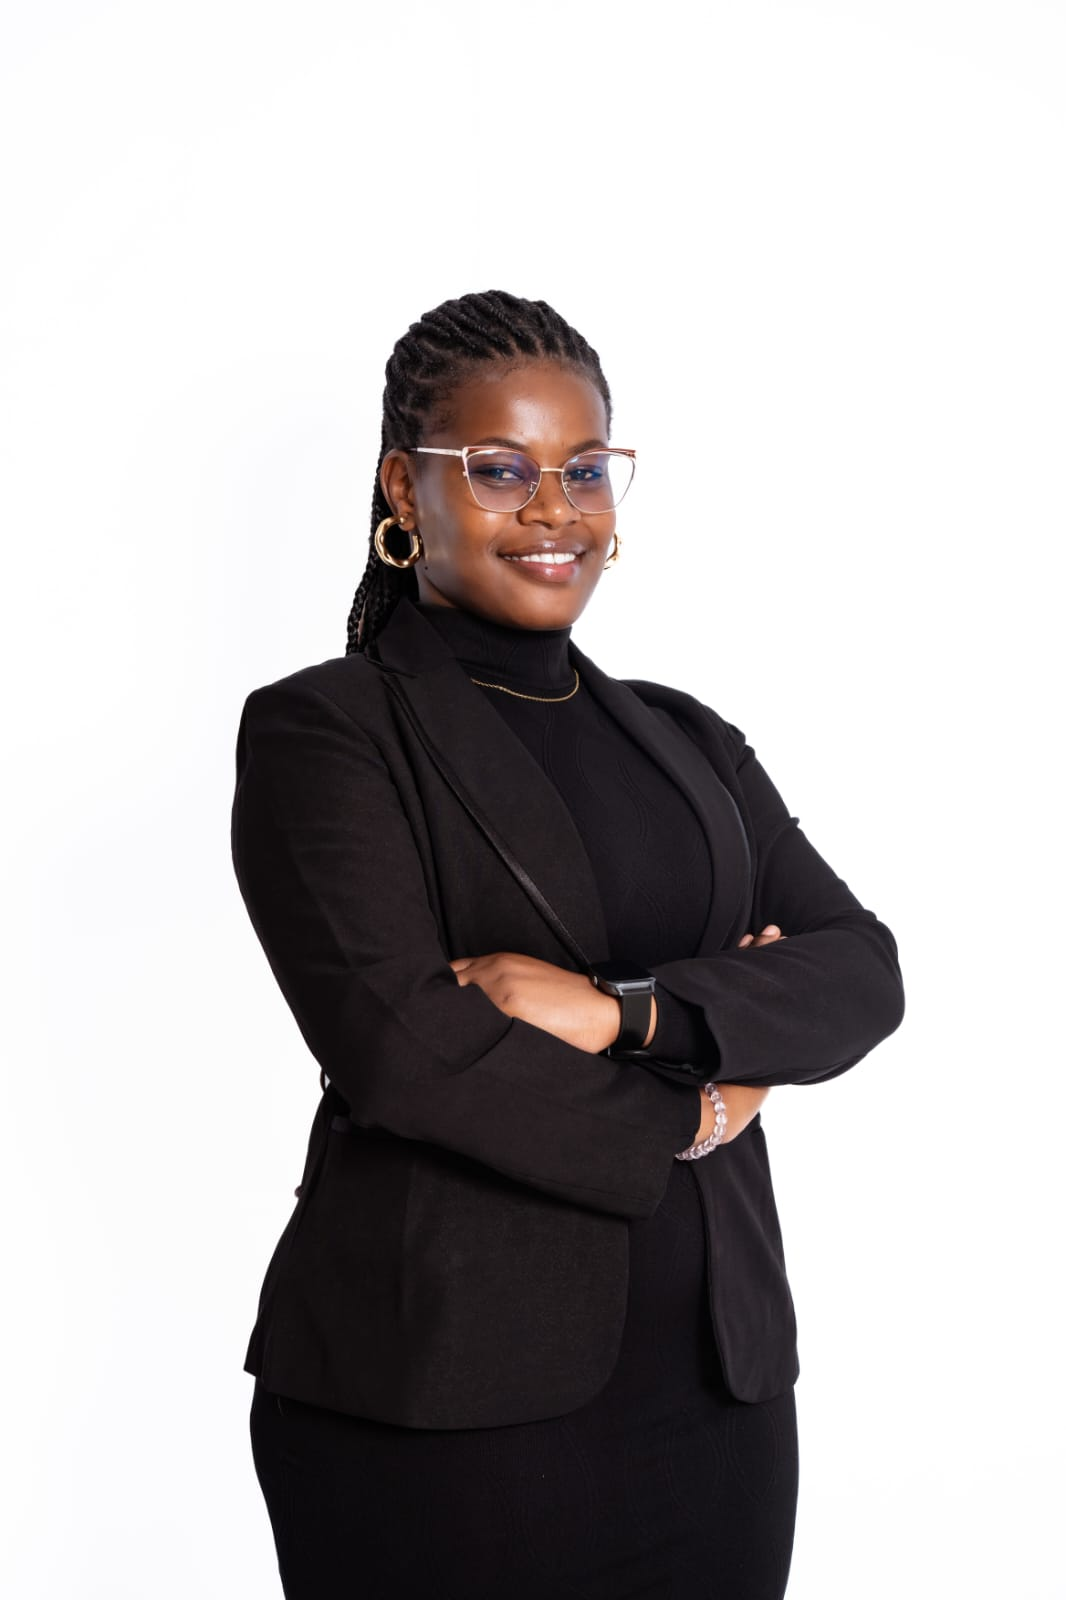
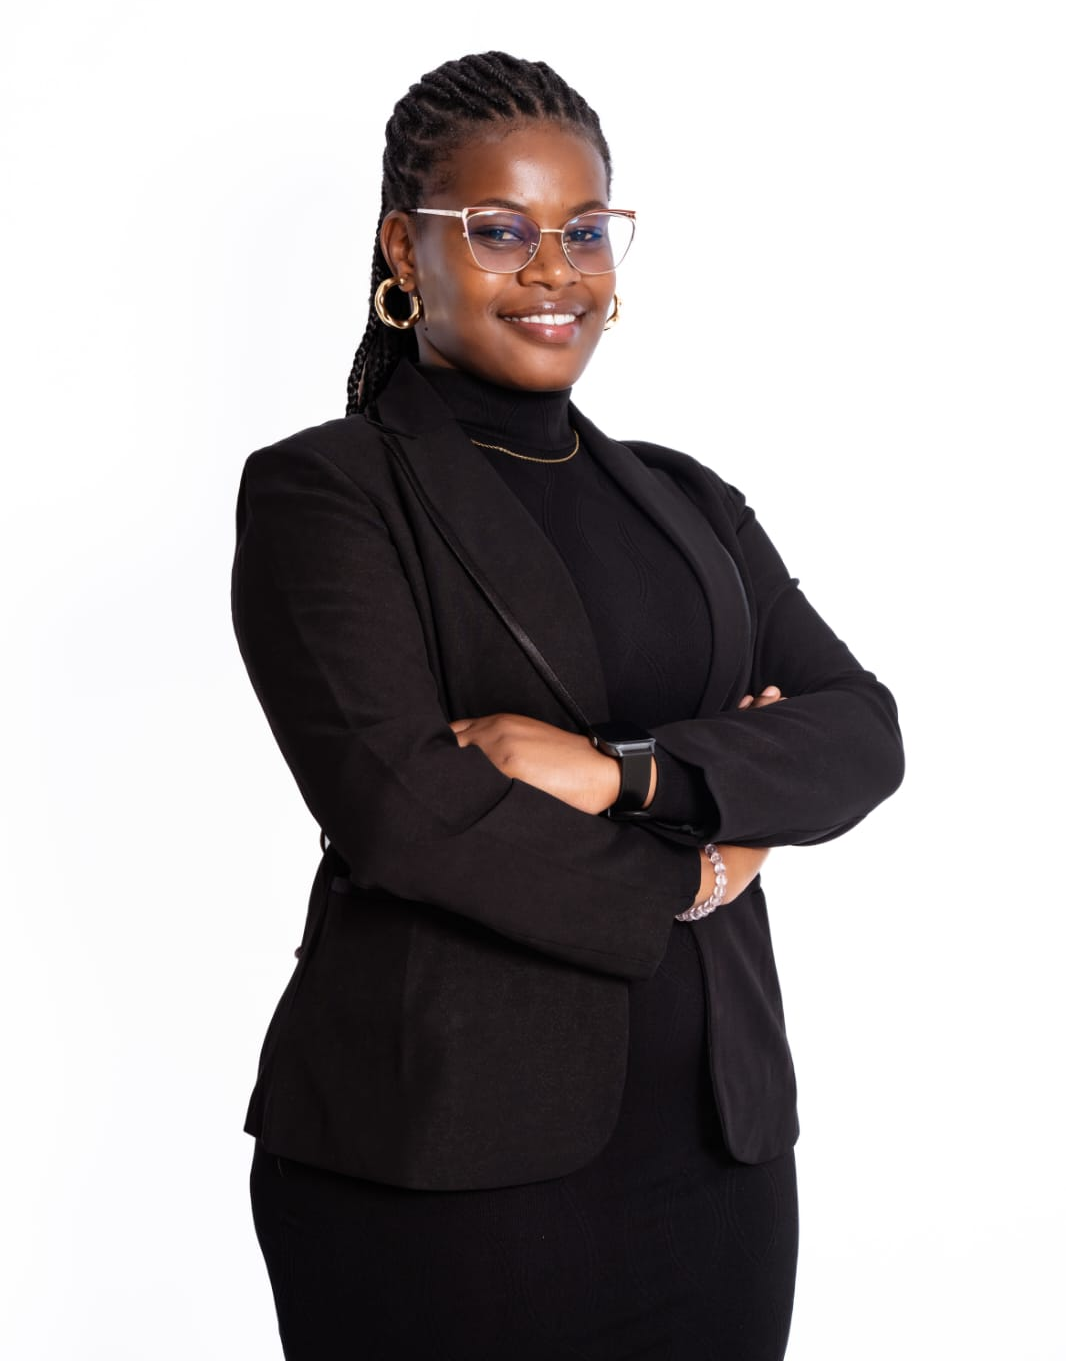
Fix hero photo cropping her face out on mobile
The source photo had ~18% pure white headroom above her head. Combined
with the short mobile crop window (object-fit: cover, object-position:
top), that dead space pushed her face down and out of frame on small
screens. Cropped the source image tighter to the subject so the same
top-aligned crop now shows her face correctly at every breakpoint.

diff --git a/index.html b/index.html
@@ -121,7 +121,7 @@
 
       <div class="hero-photo">
         <div class="hero-photo-frame">
-          <img src="assets/images/janet-professional.png" alt="Portrait of Janet Wanjiku, clinical psychologist, standing confidently in professional attire" width="900" height="1200" fetchpriority="high">
+          <img src="assets/images/janet-professional.png" alt="Portrait of Janet Wanjiku, clinical psychologist, standing confidently in professional attire" width="1066" height="1361" fetchpriority="high">
         </div>
         <div class="hero-caption">
           <strong>Janet Wanjiku</strong>
